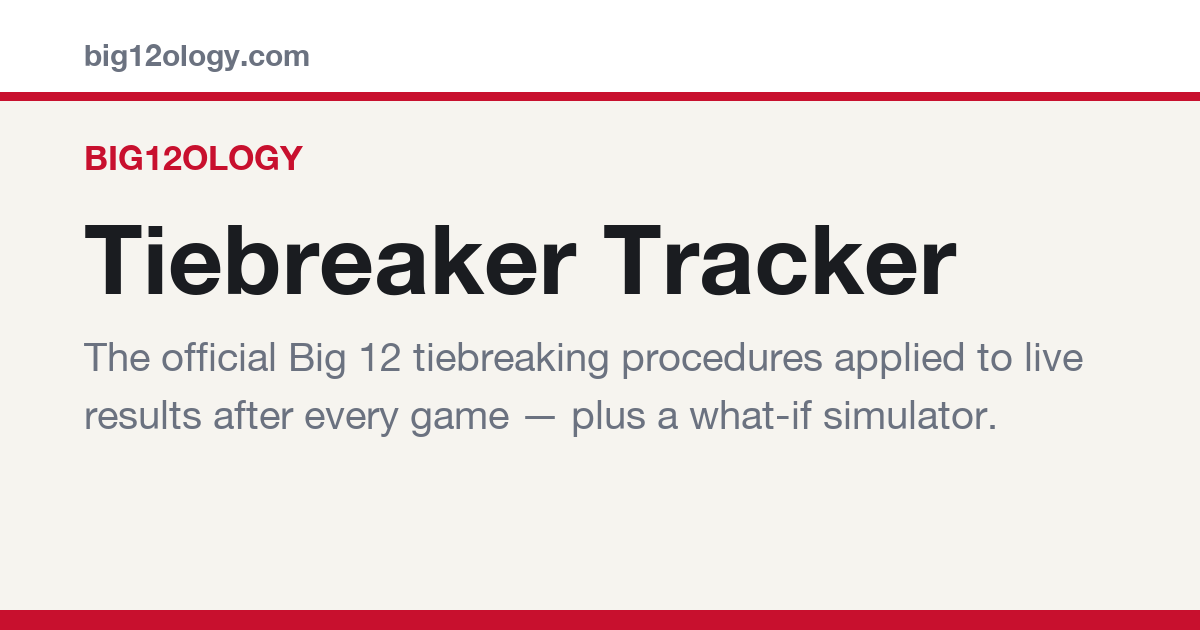
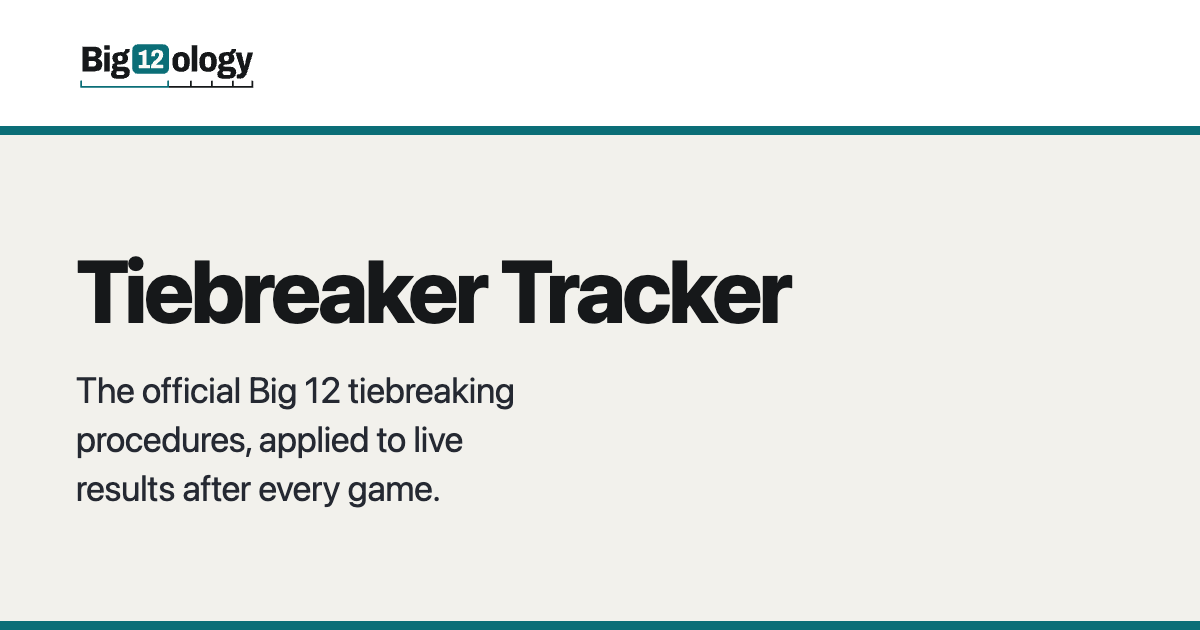
Teal social card, and the audit against the new palette
Card regenerated at 1200x630 from brand/og-source.html so it can be
rebuilt rather than hand-edited next time. Contrast swept over ten pages
in both themes: 3,219 text nodes, zero failures each. The scoping rule
holds too — 431 percentile cells checked across five pages, no teal
inside or beside any of them.

diff --git a/site/brand/og-source.html b/site/brand/og-source.html
@@ -1,0 +1,33 @@
+<!doctype html>
+<!-- Source for the 1200x630 social cards. Load with ?t=<title>&d=<desc> and
+     screenshot at exactly 1200x630. Kept in the repo so the cards can be
+     regenerated rather than hand-edited when the brand moves again. -->
+<html lang="en"><head><meta charset="utf-8"><title>card</title>
+<style>
+  *{margin:0;padding:0;box-sizing:border-box}
+  html,body{width:1200px;height:630px}
+  body{font:16px/1.4 -apple-system,BlinkMacSystemFont,"Segoe UI",Roboto,
+       Helvetica,Arial,sans-serif;background:#fff;color:#16181A;
+       display:flex;flex-direction:column}
+  .top{padding:40px 76px 0}
+  .top img{height:52px;width:auto;display:block}
+  .rule{height:9px;background:#0B6E77;margin-top:34px}
+  .body{flex:1;background:#F2F1EC;padding:52px 76px;display:flex;
+        flex-direction:column;justify-content:center}
+  h1{font-size:88px;line-height:1.02;letter-spacing:-3px;font-weight:800;
+     margin-bottom:30px}
+  p{font-size:36px;line-height:1.36;color:#252932;max-width:22ch;
+    letter-spacing:-.4px}
+  .foot{height:9px;background:#0B6E77}
+</style></head>
+<body>
+  <div class="top"><img src="big12ology-primary.svg" alt="Big12ology"></div>
+  <div class="rule"></div>
+  <div class="body"><h1 id="t"></h1><p id="d"></p></div>
+  <div class="foot"></div>
+<script>
+  var q = new URLSearchParams(location.search);
+  document.getElementById("t").textContent = q.get("t") || "Big12ology";
+  document.getElementById("d").textContent = q.get("d") || "";
+</script>
+</body></html>
